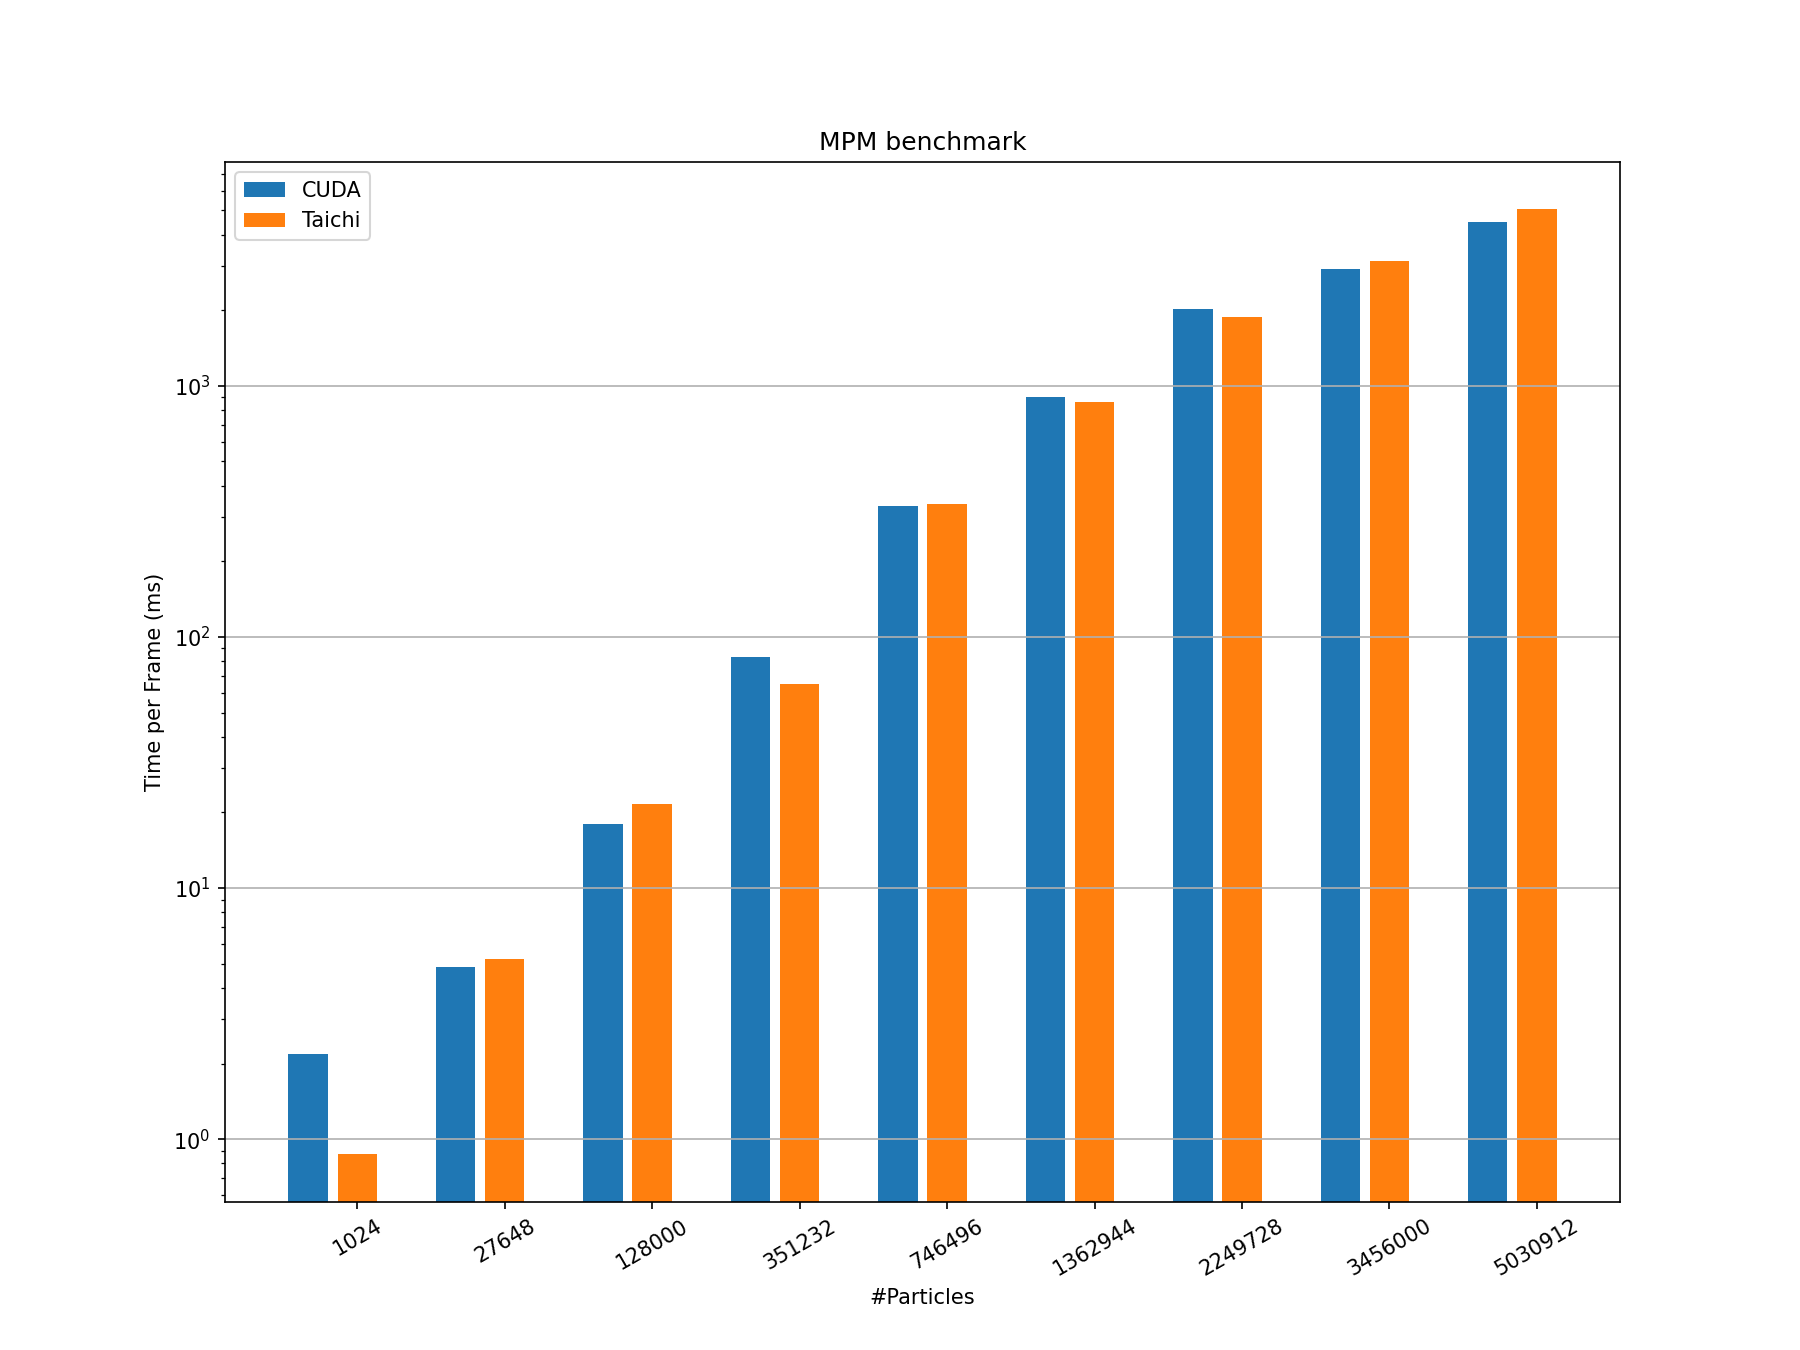
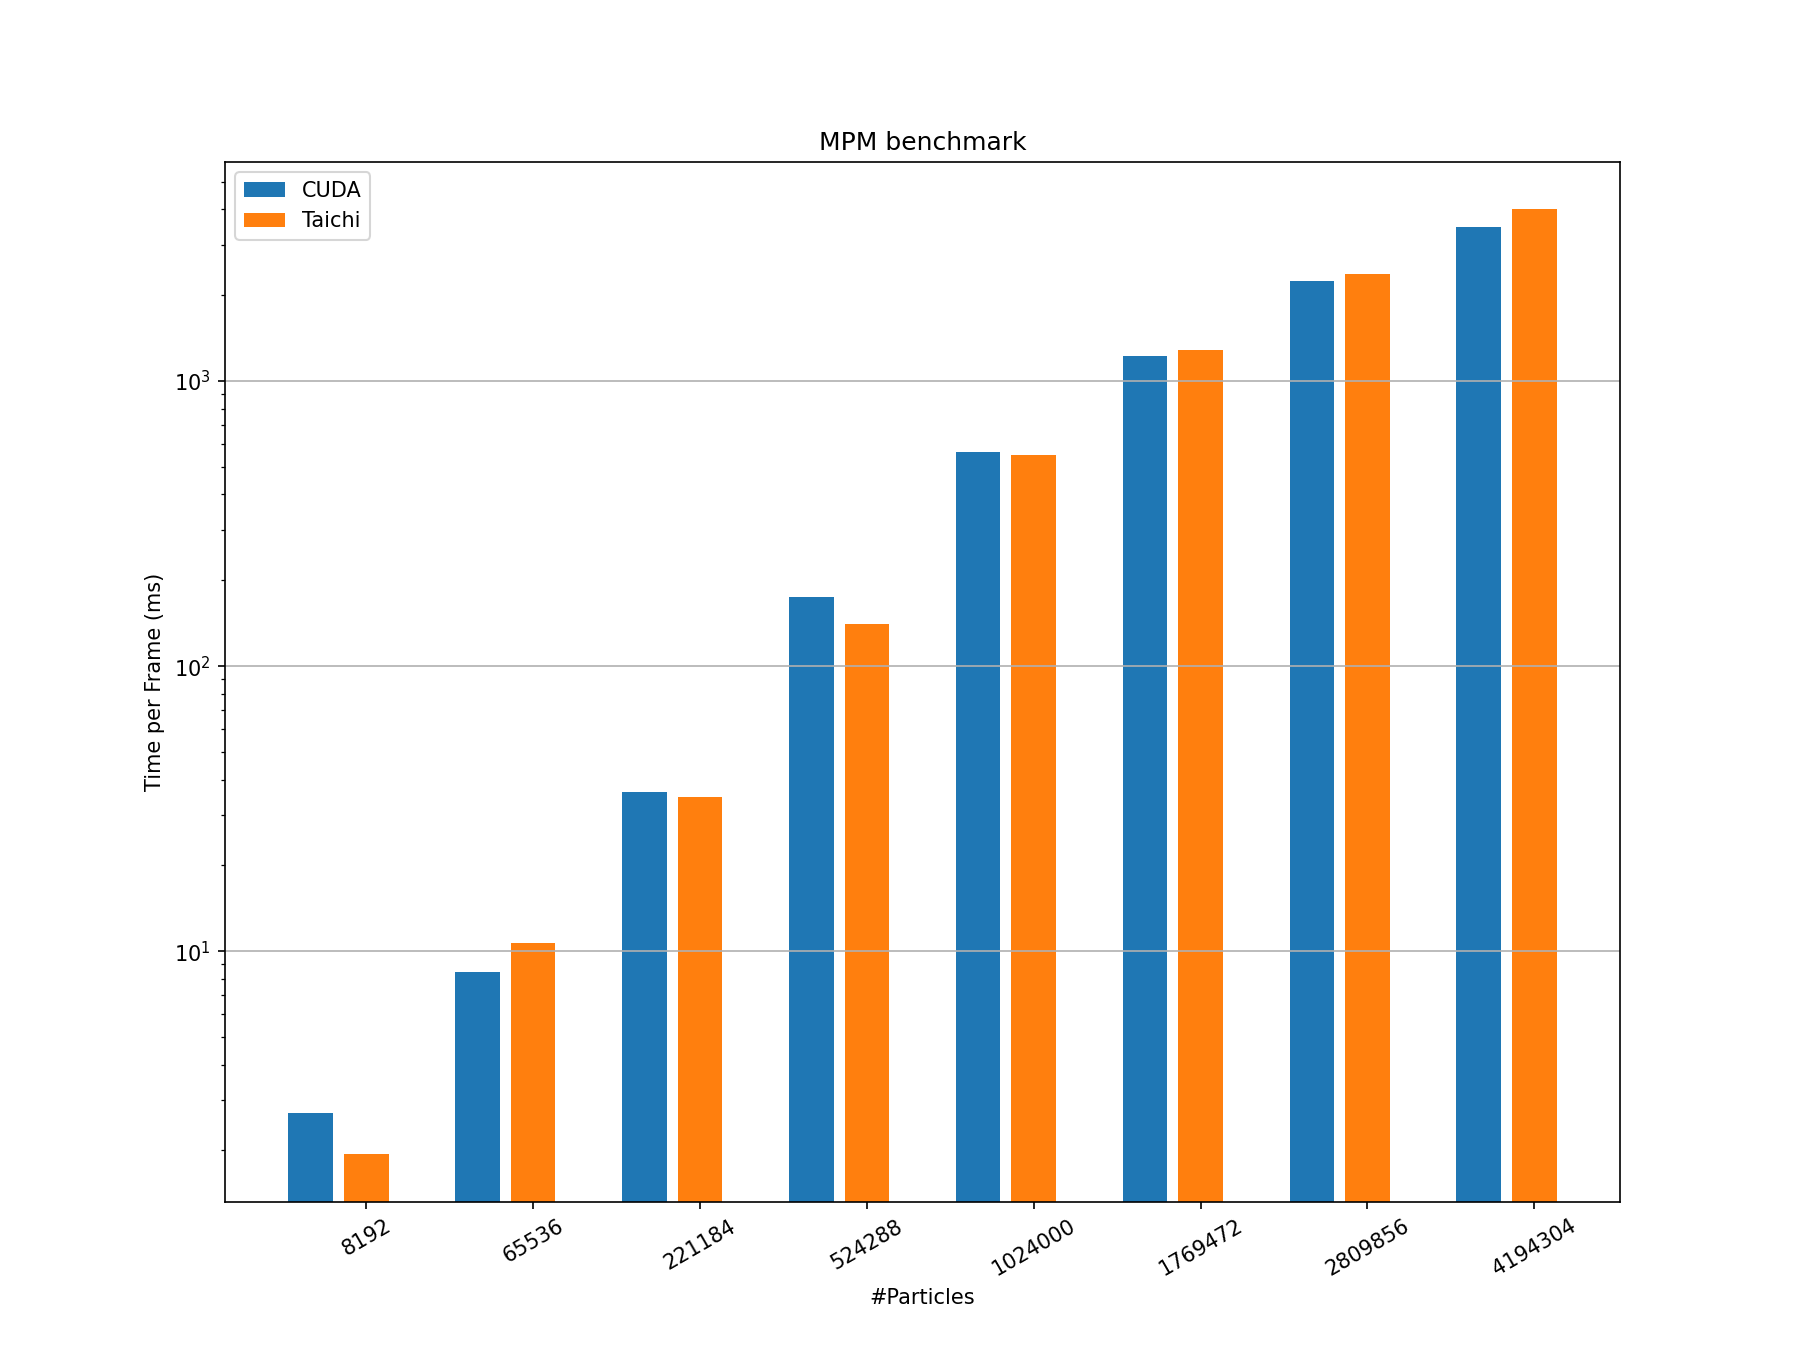
Update mpm plots

diff --git a/mpm/plot_benchmark.py b/mpm/plot_benchmark.py
@@ -2,10 +2,13 @@ import matplotlib.pyplot as plt
 import sys
 import os
 
-cuda_sample_results = {'cuda_2d': [{'n_particles': 128, 'time_ms': 0.989771}, {'n_particles': 1152, 'time_ms': 1.019925}, {'n_particles': 3200, 'time_ms': 1.043498}, {'n_particles': 6272, 'time_ms': 1.144777}, {'n_particles': 10368, 'time_ms': 1.325348}, {'n_particles': 15488, 'time_ms': 1.604376}, {'n_particles': 21632, 'time_ms': 1.780423}, {'n_particles': 28800, 'time_ms': 2.219935}, {'n_particles': 36992, 'time_ms': 2.624425}], 'cuda_3d': [{'n_particles': 1024, 'time_ms': 2.175864}, {'n_particles': 27648, 'time_ms': 4.838743}, {'n_particles': 128000, 'time_ms': 17.925041}, {'n_particles': 351232, 'time_ms': 82.931763}, {'n_particles': 746496, 'time_ms': 332.263519}, {'n_particles': 1362944, 'time_ms': 900.967163}, {'n_particles': 2249728, 'time_ms': 2020.989258}, {'n_particles': 3456000, 'time_ms': 2922.075928}, {'n_particles': 5030912, 'time_ms': 4490.73584}]}
+cuda_sample_results = {'cuda_2d': [{'n_particles': 512, 'time_ms': 1.024374}, {'n_particles': 2048, 'time_ms': 1.033906}, {'n_particles': 4608, 'time_ms': 1.13101}, {'n_particles': 8192, 'time_ms': 1.24747}, {'n_particles': 12800, 'time_ms': 1.484127}, {'n_particles': 18432, 'time_ms': 1.791808}, {'n_particles': 25088, 'time_ms': 2.105247}, {'n_particles': 32768, 'time_ms': 2.370462}], 'cuda_3d': [{'n_particles': 8192, 'time_ms': 2.70262}, {'n_particles': 65536, 'time_ms': 8.443884}, {'n_particles': 221184, 'time_ms': 36.317848}, {'n_particles': 524288, 'time_ms': 174.325989}, {'n_particles': 1024000, 'time_ms': 565.163757}, {'n_particles': 1769472, 'time_ms': 1228.022095}, {'n_particles': 2809856, 'time_ms': 2252.36377}, {'n_particles': 4194304, 'time_ms': 3472.967773}]}
 
-taichi_sample_results = {'taichi_2d': [{'n_particles': 128, 'time_ms': 0.48161188865947224}, {'n_particles': 1152, 'time_ms': 0.4853399545936554}, {'n_particles': 3200, 'time_ms': 0.49222280321714607}, {'n_particles': 6272, 'time_ms': 0.5224119828994844}, {'n_particles': 10368, 'time_ms': 0.6324768173726625}, {'n_particles': 15488, 'time_ms': 0.758077704574589}, {'n_particles': 21632, 'time_ms': 0.9206238256922461}, {'n_particles': 28800, 'time_ms': 1.1050803203147552}, {'n_particles': 36992, 'time_ms': 1.347265234386441}], 'taichi_3d': [{'n_particles': 1024, 'time_ms': 0.870358452147002}, {'n_particles': 27648, 'time_ms': 5.206501572274647}, {'n_particles': 128000, 'time_ms': 21.61489226222102}, {'n_particles': 351232, 'time_ms': 65.09008040575281}, {'n_particles': 746496, 'time_ms': 337.4440998095736}, {'n_particles': 1362944, 'time_ms': 863.3175398461788}, {'n_particles': 2249728, 'time_ms': 1877.4295391049804}, {'n_particles': 3456000, 'time_ms': 3140.0475489834034}, {'n_particles': 5030912, 'time_ms': 5052.8972775903185}]}
+#cuda_sample_results = {'cuda_2d': [{'n_particles': 128, 'time_ms': 0.989771}, {'n_particles': 1152, 'time_ms': 1.019925}, {'n_particles': 3200, 'time_ms': 1.043498}, {'n_particles': 6272, 'time_ms': 1.144777}, {'n_particles': 10368, 'time_ms': 1.325348}, {'n_particles': 15488, 'time_ms': 1.604376}, {'n_particles': 21632, 'time_ms': 1.780423}, {'n_particles': 28800, 'time_ms': 2.219935}, {'n_particles': 36992, 'time_ms': 2.624425}], 'cuda_3d': [{'n_particles': 1024, 'time_ms': 2.175864}, {'n_particles': 27648, 'time_ms': 4.838743}, {'n_particles': 128000, 'time_ms': 17.925041}, {'n_particles': 351232, 'time_ms': 82.931763}, {'n_particles': 746496, 'time_ms': 332.263519}, {'n_particles': 1362944, 'time_ms': 900.967163}, {'n_particles': 2249728, 'time_ms': 2020.989258}, {'n_particles': 3456000, 'time_ms': 2922.075928}, {'n_particles': 5030912, 'time_ms': 4490.73584}]}
 
+taichi_sample_results = {'taichi_2d': [{'n_particles': 512, 'time_ms': 0.4708201557548364}, {'n_particles': 2048, 'time_ms': 0.4732567070391269}, {'n_particles': 4608, 'time_ms': 0.5115689839101378}, {'n_particles': 8192, 'time_ms': 0.5668949448249805}, {'n_particles': 12800, 'time_ms': 0.6931407124000089}, {'n_particles': 18432, 'time_ms': 0.8494079414163025}, {'n_particles': 25088, 'time_ms': 1.0304002558427783}, {'n_particles': 32768, 'time_ms': 1.2111213139576193}], 'taichi_3d': [{'n_particles': 8192, 'time_ms': 1.9398335703044722}, {'n_particles': 65536, 'time_ms': 10.701219556153774}, {'n_particles': 221184, 'time_ms': 34.867725920889825}, {'n_particles': 524288, 'time_ms': 140.94088707861374}, {'n_particles': 1024000, 'time_ms': 549.7929778569244}, {'n_particles': 1769472, 'time_ms': 1286.6532287104633}, {'n_particles': 2809856, 'time_ms': 2374.8291689565235}, {'n_particles': 4194304, 'time_ms': 4005.1647448022436}]}
+
+#taichi_sample_results = {'taichi_2d': [{'n_particles': 128, 'time_ms': 0.48161188865947224}, {'n_particles': 1152, 'time_ms': 0.4853399545936554}, {'n_particles': 3200, 'time_ms': 0.49222280321714607}, {'n_particles': 6272, 'time_ms': 0.5224119828994844}, {'n_particles': 10368, 'time_ms': 0.6324768173726625}, {'n_particles': 15488, 'time_ms': 0.758077704574589}, {'n_particles': 21632, 'time_ms': 0.9206238256922461}, {'n_particles': 28800, 'time_ms': 1.1050803203147552}, {'n_particles': 36992, 'time_ms': 1.347265234386441}], 'taichi_3d': [{'n_particles': 1024, 'time_ms': 0.870358452147002}, {'n_particles': 27648, 'time_ms': 5.206501572274647}, {'n_particles': 128000, 'time_ms': 21.61489226222102}, {'n_particles': 351232, 'time_ms': 65.09008040575281}, {'n_particles': 746496, 'time_ms': 337.4440998095736}, {'n_particles': 1362944, 'time_ms': 863.3175398461788}, {'n_particles': 2249728, 'time_ms': 1877.4295391049804}, {'n_particles': 3456000, 'time_ms': 3140.0475489834034}, {'n_particles': 5030912, 'time_ms': 5052.8972775903185}]}
 
 def extract_perf(results):
     perf = []
@@ -21,7 +24,7 @@ def extract_particles(results):
 
 def plot_bar(cuda_results, taichi_results):
     fig, ax = plt.subplots(figsize=(12,9))
-    plot_series = "2d"
+    plot_series = "3d"
 
     x_cuda = extract_particles(cuda_results["cuda_" + plot_series])
     y_cuda = extract_perf(cuda_results["cuda_" + plot_series])

diff --git a/mpm/src/cuda/benchmark.py b/mpm/src/cuda/benchmark.py
@@ -52,7 +52,7 @@ def run_benchmark(output_binary_name, flags=[]):
     with pushd(workdir):
         # Run Benchmark
         results = []
-        n_grids = np.arange(16, 256+32, 32).tolist()
+        n_grids = np.arange(32, 256+32, 32).tolist()
         for n_grid in n_grids:
             print("running", output_binary_name, "n_grid", n_grid)
             argv = ["{}".format(n_grid)]

diff --git a/mpm/src/taichi/benchmark.py b/mpm/src/taichi/benchmark.py
@@ -3,7 +3,7 @@ from mpm2d import run_mpm as run_mpm_2d
 from mpm3d import run_mpm as run_mpm_3d
 
 def benchmark(nIters = 2048):
-    n_grids = np.arange(16, 256+32, 32).tolist()
+    n_grids = np.arange(32, 256+32, 32).tolist()
     mpm_2d_results = []
     mpm_3d_results = []
     for n_grid in n_grids:
